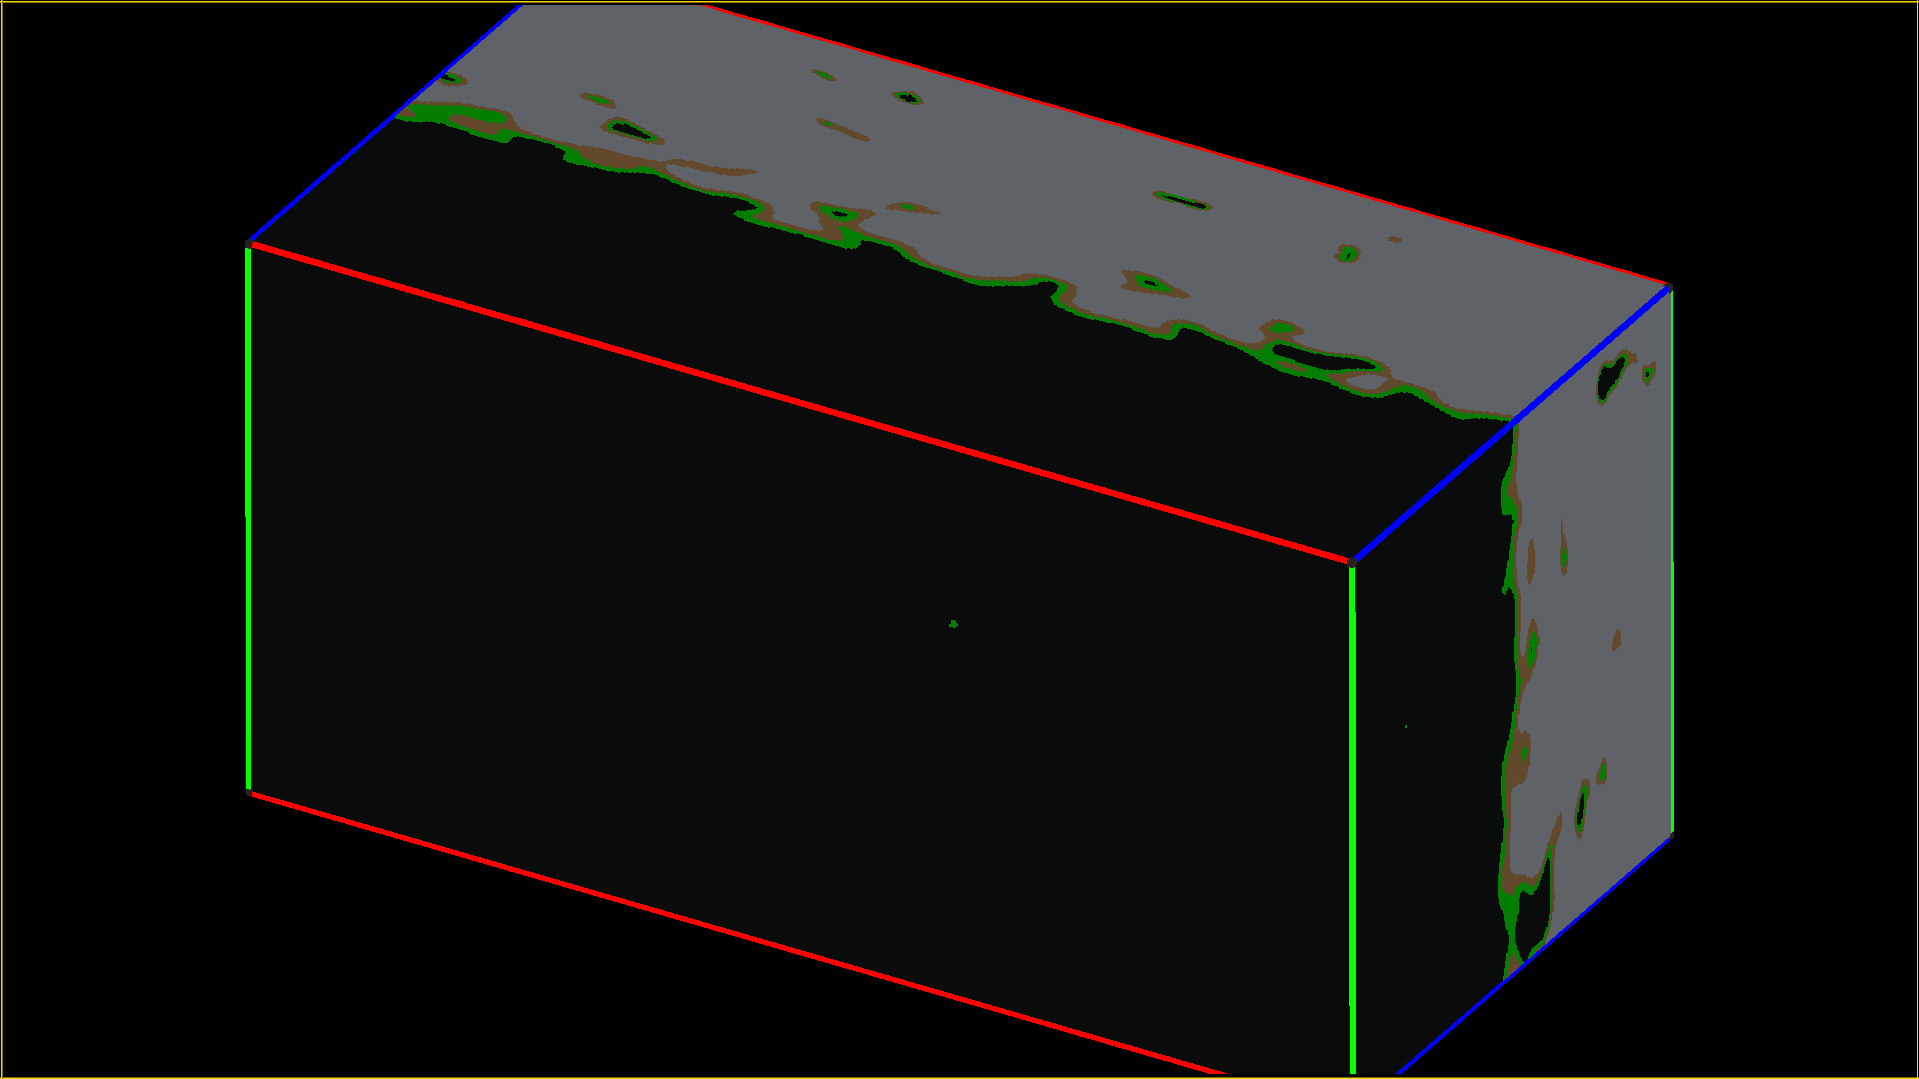
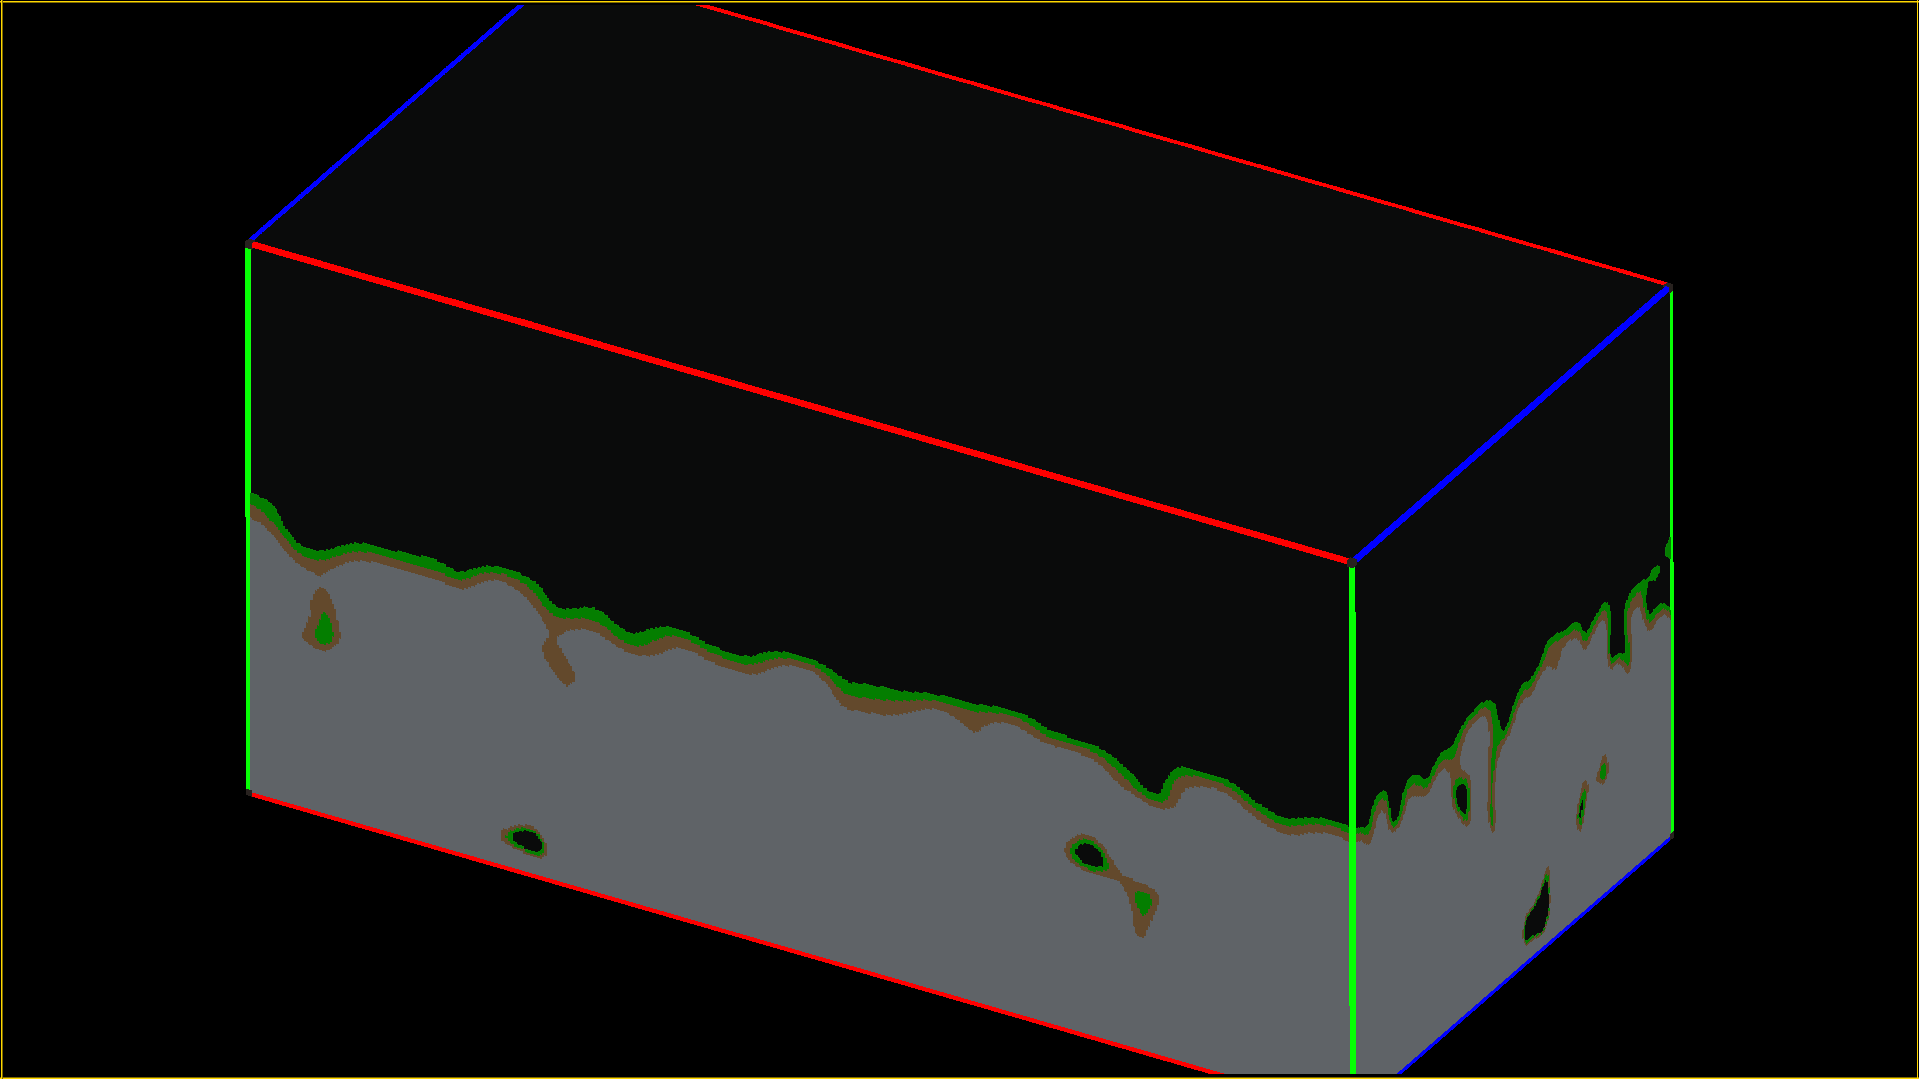
most of the castle demo done

Changed region(s): [[0.123, 0.0, 0.8916, 1.0]]

diff --git a/code/generate.cc b/code/generate.cc
@@ -49,10 +49,282 @@ int main()
   tick = Clock::now();
 
 
-
+// The environment - land and sky
   main_block->draw_sphere(vec(255.5, 127.5, 127.5), 500, main_block->get_vox( 57, 1, false) );
   main_block->draw_minecraft_style_terrain();
-  main_block->draw_sphere(vec(255.5, 127.5, 100), 50, main_block->get_vox( 0, 0, false) );
+
+// Center of the space
+  vec castle_center = vec(255.5, 100, 127.5);
+
+
+
+  vec a, b, c, d, e, f, g, h;
+
+// main walls
+  a = castle_center + vec(-50,  77,  50);
+  b = castle_center + vec(-50,   0,  50);
+  c = castle_center + vec( 50,  77,  50);
+  d = castle_center + vec( 50,   0,  50);
+  e = castle_center + vec(-50,  77, -50);
+  f = castle_center + vec(-50,   0, -50);
+  g = castle_center + vec( 50,  77, -50);
+  h = castle_center + vec( 50,   0, -50);
+
+  main_block->draw_quadrilateral_hexahedron(a, b, c, d, e, f, g, h, main_block->get_vox( 60, 255, false) );
+
+// cutout for courtyard
+  a = castle_center + vec(-40,  77,  40);
+  b = castle_center + vec(-40,   5,  40);
+  c = castle_center + vec( 40,  77,  40);
+  d = castle_center + vec( 40,   5,  40);
+  e = castle_center + vec(-40,  77, -40);
+  f = castle_center + vec(-40,   5, -40);
+  g = castle_center + vec( 40,  77, -40);
+  h = castle_center + vec( 40,   5, -40);
+
+  main_block->draw_quadrilateral_hexahedron(a, b, c, d, e, f, g, h, main_block->get_vox( 0, 0, false) );
+
+
+  a = castle_center + vec(-45,  80,  45);
+  b = castle_center + vec(-45,   0,  45);
+  c = castle_center + vec( 45,  80,  45);
+  d = castle_center + vec( 45,   0,  45);
+  e = castle_center + vec(-45,  80, -45);
+  f = castle_center + vec(-45,   0, -45);
+  g = castle_center + vec( 45,  80, -45);
+  h = castle_center + vec( 45,   0, -45);
+
+// cut out space for towers
+  main_block->draw_cylinder(a, b, 12, main_block->get_vox( 0, 0, false) );
+  main_block->draw_cylinder(c, d, 12, main_block->get_vox( 0, 0, false) );
+  main_block->draw_cylinder(e, f, 12, main_block->get_vox( 0, 0, false) );
+  main_block->draw_cylinder(g, h, 12, main_block->get_vox( 0, 0, false) );
+
+// draw the stairs for the spiral staircase...
+
+  vec fe_tower_location = f;
+  vec ba_tower_location = b;
+  vec dc_tower_location = d;
+  vec hg_tower_location = h;
+
+// "rotated" vectors to represent stair edges
+  vec displacement_vectors[8] = {vec(1,0,0), vec(1,0,1), vec(0,0,1), vec(-1,0,1), vec(-1,0,0), vec(-1,0,-1), vec(0,0,-1), vec(1,0,-1)};
+
+// normalize and multiply to make them all the same lengths
+  for(int i = 0; i < 8; i++)
+    displacement_vectors[i] = 10.0f * normalize(displacement_vectors[i]);
+
+  int index1 = 0;
+  int index2 = 1;
+
+
+  for(int i = 0; i < 40; i++)
+  {
+    // drawing the steps for this level
+    main_block->draw_triangle(fe_tower_location, fe_tower_location + displacement_vectors[index1], fe_tower_location + displacement_vectors[index2], 2.0, main_block->get_vox( 20, 255, false) );
+    main_block->draw_triangle(ba_tower_location, ba_tower_location + displacement_vectors[index1], ba_tower_location + displacement_vectors[index2], 2.0, main_block->get_vox( 20, 255, false) );
+    main_block->draw_triangle(dc_tower_location, dc_tower_location + displacement_vectors[index1], dc_tower_location + displacement_vectors[index2], 2.0, main_block->get_vox( 20, 255, false) );
+    main_block->draw_triangle(hg_tower_location, hg_tower_location + displacement_vectors[index1], hg_tower_location + displacement_vectors[index2], 2.0, main_block->get_vox( 20, 255, false) );
+
+    // increment the indicies for the displacement vectors
+    index1++; index2++;
+    if(index1 == 8) index1 = 0;
+    if(index2 == 8) index2 = 0;
+
+    // move 'em on up
+    fe_tower_location += vec(0,1.75,0);
+    ba_tower_location += vec(0,1.75,0);
+    dc_tower_location += vec(0,1.75,0);
+    hg_tower_location += vec(0,1.75,0);
+  }
+
+
+// platform at the top of the stairs
+  main_block->draw_cylinder(fe_tower_location, fe_tower_location + vec(0,2,0), 10, main_block->get_vox( 20, 255, false) );
+  main_block->draw_cylinder(ba_tower_location, ba_tower_location + vec(0,2,0), 10, main_block->get_vox( 20, 255, false) );
+  main_block->draw_cylinder(dc_tower_location, dc_tower_location + vec(0,2,0), 10, main_block->get_vox( 20, 255, false) );
+  main_block->draw_cylinder(hg_tower_location, hg_tower_location + vec(0,2,0), 10, main_block->get_vox( 20, 255, false) );
+
+
+// cutout for the top stair (quarter circle)
+  main_block->draw_triangle(fe_tower_location, fe_tower_location + displacement_vectors[7], fe_tower_location + displacement_vectors[0], 3.0, main_block->get_vox( 0, 0, false) );
+  main_block->draw_triangle(ba_tower_location, ba_tower_location + displacement_vectors[7], ba_tower_location + displacement_vectors[0], 3.0, main_block->get_vox( 0, 0, false) );
+  main_block->draw_triangle(dc_tower_location, dc_tower_location + displacement_vectors[7], dc_tower_location + displacement_vectors[0], 3.0, main_block->get_vox( 0, 0, false) );
+  main_block->draw_triangle(hg_tower_location, hg_tower_location + displacement_vectors[7], hg_tower_location + displacement_vectors[0], 3.0, main_block->get_vox( 0, 0, false) );
+
+  main_block->draw_triangle(fe_tower_location, fe_tower_location + displacement_vectors[0], fe_tower_location + displacement_vectors[1], 3.0, main_block->get_vox( 0, 0, false) );
+  main_block->draw_triangle(ba_tower_location, ba_tower_location + displacement_vectors[0], ba_tower_location + displacement_vectors[1], 3.0, main_block->get_vox( 0, 0, false) );
+  main_block->draw_triangle(dc_tower_location, dc_tower_location + displacement_vectors[0], dc_tower_location + displacement_vectors[1], 3.0, main_block->get_vox( 0, 0, false) );
+  main_block->draw_triangle(hg_tower_location, hg_tower_location + displacement_vectors[0], hg_tower_location + displacement_vectors[1], 3.0, main_block->get_vox( 0, 0, false) );
+
+
+  a += vec(0,2,0);
+  b += vec(0,2,0);
+  c += vec(0,2,0);
+  d += vec(0,2,0);
+  e += vec(0,2,0);
+  f += vec(0,2,0);
+  g += vec(0,2,0);
+  h += vec(0,2,0);
+
+
+// draw outer walls of towers
+  main_block->draw_tube(a, b, 9, 12, main_block->get_vox( 60, 255, false) );
+  main_block->draw_tube(c, d, 9, 12, main_block->get_vox( 60, 255, false) );
+  main_block->draw_tube(e, f, 9, 12, main_block->get_vox( 60, 255, false) );
+  main_block->draw_tube(g, h, 9, 12, main_block->get_vox( 60, 255, false) );
+
+
+// draw central post of towers
+  main_block->draw_cylinder(a, b, 2, main_block->get_vox( 60, 255, false) );
+  main_block->draw_cylinder(c, d, 2, main_block->get_vox( 60, 255, false) );
+  main_block->draw_cylinder(e, f, 2, main_block->get_vox( 60, 255, false) );
+  main_block->draw_cylinder(g, h, 2, main_block->get_vox( 60, 255, false) );
+
+// tower caps
+  main_block->draw_cylinder(a, a+vec(0,8,0), 14, main_block->get_vox( 60, 255, false) );
+  main_block->draw_cylinder(c, c+vec(0,8,0), 14, main_block->get_vox( 60, 255, false) );
+  main_block->draw_cylinder(e, e+vec(0,8,0), 14, main_block->get_vox( 60, 255, false) );
+  main_block->draw_cylinder(g, g+vec(0,8,0), 14, main_block->get_vox( 60, 255, false) );
+
+  main_block->draw_cylinder(a+vec(0,2,0), a+vec(0,8,0), 10, main_block->get_vox( 0, 0, false) );
+  main_block->draw_cylinder(c+vec(0,2,0), c+vec(0,8,0), 10, main_block->get_vox( 0, 0, false) );
+  main_block->draw_cylinder(e+vec(0,2,0), e+vec(0,8,0), 10, main_block->get_vox( 0, 0, false) );
+  main_block->draw_cylinder(g+vec(0,2,0), g+vec(0,8,0), 10, main_block->get_vox( 0, 0, false) );
+
+// crenelations for towers - lengthen displacement vectors
+  for(int i = 0; i < 8; i++)
+    displacement_vectors[i] = 15.0f * normalize(displacement_vectors[i]);
+
+  for(int i = 0; i < 8; i++)
+  {
+    main_block->draw_cylinder(a+vec(0,8,0), a+vec(0,8,0)+displacement_vectors[i], 2, main_block->get_vox( 0, 0, false) );
+    main_block->draw_cylinder(c+vec(0,8,0), c+vec(0,8,0)+displacement_vectors[i], 2, main_block->get_vox( 0, 0, false) );
+    main_block->draw_cylinder(e+vec(0,8,0), e+vec(0,8,0)+displacement_vectors[i], 2, main_block->get_vox( 0, 0, false) );
+    main_block->draw_cylinder(g+vec(0,8,0), g+vec(0,8,0)+displacement_vectors[i], 2, main_block->get_vox( 0, 0, false) );
+  }
+
+// walkways on the walls - wood layer (20) then empty layer for negative space
+
+
+// those along the x axis
+  vec wa, wb, wc, wd, we, wf, wg, wh;
+
+  wa = castle_center + vec(-38, 77, 48);
+  wb = castle_center + vec(-38, 70, 48);
+  wc = castle_center + vec( 38, 77, 48);
+  wd = castle_center + vec( 38, 70, 48);
+  we = castle_center + vec(-38, 77, 42);
+  wf = castle_center + vec(-38, 70, 42);
+  wg = castle_center + vec( 38, 77, 42);
+  wh = castle_center + vec( 38, 70, 42);
+
+  main_block->draw_quadrilateral_hexahedron(wa, wb, wc, wd, we, wf, wg, wh, main_block->get_vox( 20, 255, false) );
+
+  wa = castle_center + vec(-38, 77, 48);
+  wb = castle_center + vec(-38, 72, 48);
+  wc = castle_center + vec( 38, 77, 48);
+  wd = castle_center + vec( 38, 72, 48);
+  we = castle_center + vec(-38, 77, 42);
+  wf = castle_center + vec(-38, 72, 42);
+  wg = castle_center + vec( 38, 77, 42);
+  wh = castle_center + vec( 38, 72, 42);
+
+  main_block->draw_quadrilateral_hexahedron(wa, wb, wc, wd, we, wf, wg, wh, main_block->get_vox( 0, 0, false) );
+
+  main_block->draw_cylinder((wa+we)/2.0f, (wc+wg)/2.0f, 3, main_block->get_vox( 0, 0, false) );
+
+  wa = castle_center + vec(-38, 77, -48);
+  wb = castle_center + vec(-38, 70, -48);
+  wc = castle_center + vec( 38, 77, -48);
+  wd = castle_center + vec( 38, 70, -48);
+  we = castle_center + vec(-38, 77, -42);
+  wf = castle_center + vec(-38, 70, -42);
+  wg = castle_center + vec( 38, 77, -42);
+  wh = castle_center + vec( 38, 70, -42);
+
+  main_block->draw_quadrilateral_hexahedron(wa, wb, wc, wd, we, wf, wg, wh, main_block->get_vox( 20, 255, false) );
+
+  wa = castle_center + vec(-38, 77, -48);
+  wb = castle_center + vec(-38, 72, -48);
+  wc = castle_center + vec( 38, 77, -48);
+  wd = castle_center + vec( 38, 72, -48);
+  we = castle_center + vec(-38, 77, -42);
+  wf = castle_center + vec(-38, 72, -42);
+  wg = castle_center + vec( 38, 77, -42);
+  wh = castle_center + vec( 38, 72, -42);
+
+  main_block->draw_quadrilateral_hexahedron(wa, wb, wc, wd, we, wf, wg, wh, main_block->get_vox( 0, 0, false) );
+
+  main_block->draw_cylinder((wa+we)/2.0f, (wc+wg)/2.0f, 3, main_block->get_vox( 0, 0, false) );
+
+// crenelations
+
+  // for(int i = 0; i < )
+
+
+//--------------------------------------
+
+
+// those along the z axis
+
+  wa = castle_center + vec(-42, 77, 38);
+  wb = castle_center + vec(-42, 70, 38);
+  wc = castle_center + vec(-48, 77, 38);
+  wd = castle_center + vec(-48, 70, 38);
+  we = castle_center + vec(-42, 77,-38);
+  wf = castle_center + vec(-42, 70,-38);
+  wg = castle_center + vec(-48, 77,-38);
+  wh = castle_center + vec(-48, 70,-38);
+
+  main_block->draw_quadrilateral_hexahedron(wa, wb, wc, wd, we, wf, wg, wh, main_block->get_vox( 20, 255, false) );
+
+  wa = castle_center + vec(-42, 77, 38);
+  wb = castle_center + vec(-42, 72, 38);
+  wc = castle_center + vec(-48, 77, 38);
+  wd = castle_center + vec(-48, 72, 38);
+  we = castle_center + vec(-42, 77,-38);
+  wf = castle_center + vec(-42, 72,-38);
+  wg = castle_center + vec(-48, 77,-38);
+  wh = castle_center + vec(-48, 72,-38);
+
+  main_block->draw_quadrilateral_hexahedron(wa, wb, wc, wd, we, wf, wg, wh, main_block->get_vox( 0, 0, false) );
+
+  main_block->draw_cylinder((wg+we)/2.0f, (wc+wa)/2.0f, 3, main_block->get_vox( 0, 0, false) );
+
+  wa = castle_center + vec(42, 77, 38);
+  wb = castle_center + vec(42, 70, 38);
+  wc = castle_center + vec(48, 77, 38);
+  wd = castle_center + vec(48, 70, 38);
+  we = castle_center + vec(42, 77,-38);
+  wf = castle_center + vec(42, 70,-38);
+  wg = castle_center + vec(48, 77,-38);
+  wh = castle_center + vec(48, 70,-38);
+
+  main_block->draw_quadrilateral_hexahedron(wa, wb, wc, wd, we, wf, wg, wh, main_block->get_vox( 20, 255, false) );
+
+  wa = castle_center + vec(42, 77, 38);
+  wb = castle_center + vec(42, 72, 38);
+  wc = castle_center + vec(48, 77, 38);
+  wd = castle_center + vec(48, 72, 38);
+  we = castle_center + vec(42, 77,-38);
+  wf = castle_center + vec(42, 72,-38);
+  wg = castle_center + vec(48, 77,-38);
+  wh = castle_center + vec(48, 72,-38);
+
+  main_block->draw_quadrilateral_hexahedron(wa, wb, wc, wd, we, wf, wg, wh, main_block->get_vox( 0, 0, false) );
+
+  main_block->draw_cylinder((wg+we)/2.0f, (wc+wa)/2.0f, 3, main_block->get_vox( 0, 0, false) );
+
+// crenelations
+
+
+
+
+
+
+
+
 
 
 

diff --git a/resources/voraldo/v7.cc b/resources/voraldo/v7.cc
@@ -1355,30 +1355,30 @@ void Voraldo::draw_minecraft_style_terrain( vec offset, vec scale, bool draw, bo
 	land_material  = get_vox( 21, 255, false);
 	rock_material  = get_vox( 60, 255, false);
 
-	float z_scale_factor;
+	float y_scale_factor;
 
 	float noise_sample = 0.0f;
 
-	for( int z = 0; z < z_dim; z++ ) // z comes first because I don't want to have to recalculate this z_scale_factor inside three nested loops
-	{// compute z_scale_factor once per slice on the z axis
+	for( int y = 0; y < y_dim; y++ ) // y comes first because I don't want to have to recalculate this y_scale_factor inside three nested loops
+	{// compute y_scale_factor once per slice on the y axis
 
-		cout << (z_scale_factor = 2.0f - ( z / 75.0f )) << endl;
+		cout << (y_scale_factor = 2.0f - ( y / 75.0f )) << endl;
 
-		for( int y = 0; y < y_dim; y++ )
+		for( int z = 0; z < z_dim; z++ )
 		{
 			for( int x = 0; x < x_dim; x++ )
 			{//per voxel
 
-				// noise_sample = z_scale_factor * p.noise( scale.x * x + offset.x, scale.y * y + offset.y, scale.z * z + offset.z ); // single octave
+				// noise_sample = y_scale_factor * p.noise( scale.x * x + offset.x, scale.y * y + offset.y, scale.z * z + offset.z ); // single octave
 
-				// noise_sample = z_scale_factor * (p.noise( scale.x * x + offset.x, scale.y * y + offset.y, scale.z * z + offset.z ) +
+				// noise_sample = y_scale_factor * (p.noise( scale.x * x + offset.x, scale.y * y + offset.y, scale.z * z + offset.z ) +
 																					// p.noise( scale.x * (x*2.0f) + offset.x, scale.y * (y*2.0f) + offset.y, scale.z * (z*2.0f) + offset.z )); // two octaves
 
-				// noise_sample = z_scale_factor * (p.noise( scale.x * x + offset.x, scale.y * y + offset.y, scale.z * z + offset.z ) +
+				// noise_sample = y_scale_factor * (p.noise( scale.x * x + offset.x, scale.y * y + offset.y, scale.z * z + offset.z ) +
 				// 																	0.5 * p.noise( scale.x * (x*2.0f) + offset.x, scale.y * (y*2.0f) + offset.y, scale.z * (z*2.0f) + offset.z ) +
 				// 																		0.25 * p.noise( scale.x * (x*4.0f) + offset.x, scale.y * (y*4.0f) + offset.y, scale.z * (z*4.0f) + offset.z )); // three octaves
 
-				noise_sample = z_scale_factor * (0.5 * p.noise( scale.x * x + offset.x, scale.y * y + offset.y, scale.z * z + offset.z ) +
+				noise_sample = y_scale_factor * (0.5 * p.noise( scale.x * x + offset.x, scale.y * y + offset.y, scale.z * z + offset.z ) +
 																					 p.noise( scale.x * (x*2.0f) + offset.x, scale.y * (y*2.0f) + offset.y, scale.z * (z*2.0f) + offset.z ) -
 																						2.0 * p.noise( scale.x * (x*4.0f) + offset.x, scale.y * (y*4.0f) + offset.y, scale.z * (z*4.0f) + offset.z ) +
 																							4.0 * p.noise( scale.x * (x*8.0f) + offset.x, scale.y * (y*8.0f) + offset.y, scale.z * (z*8.0f) + offset.z )	); // four octaves
